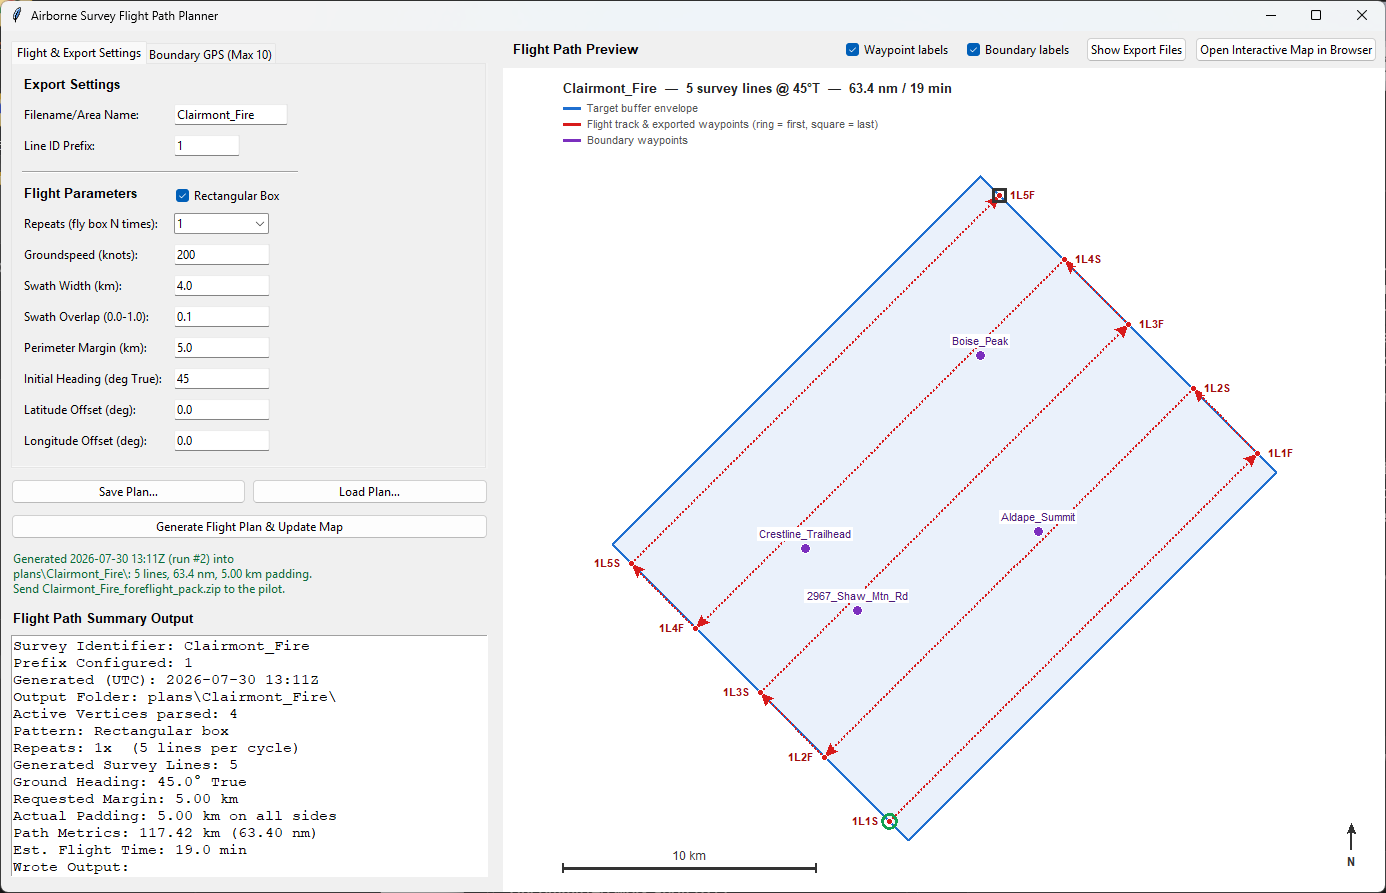
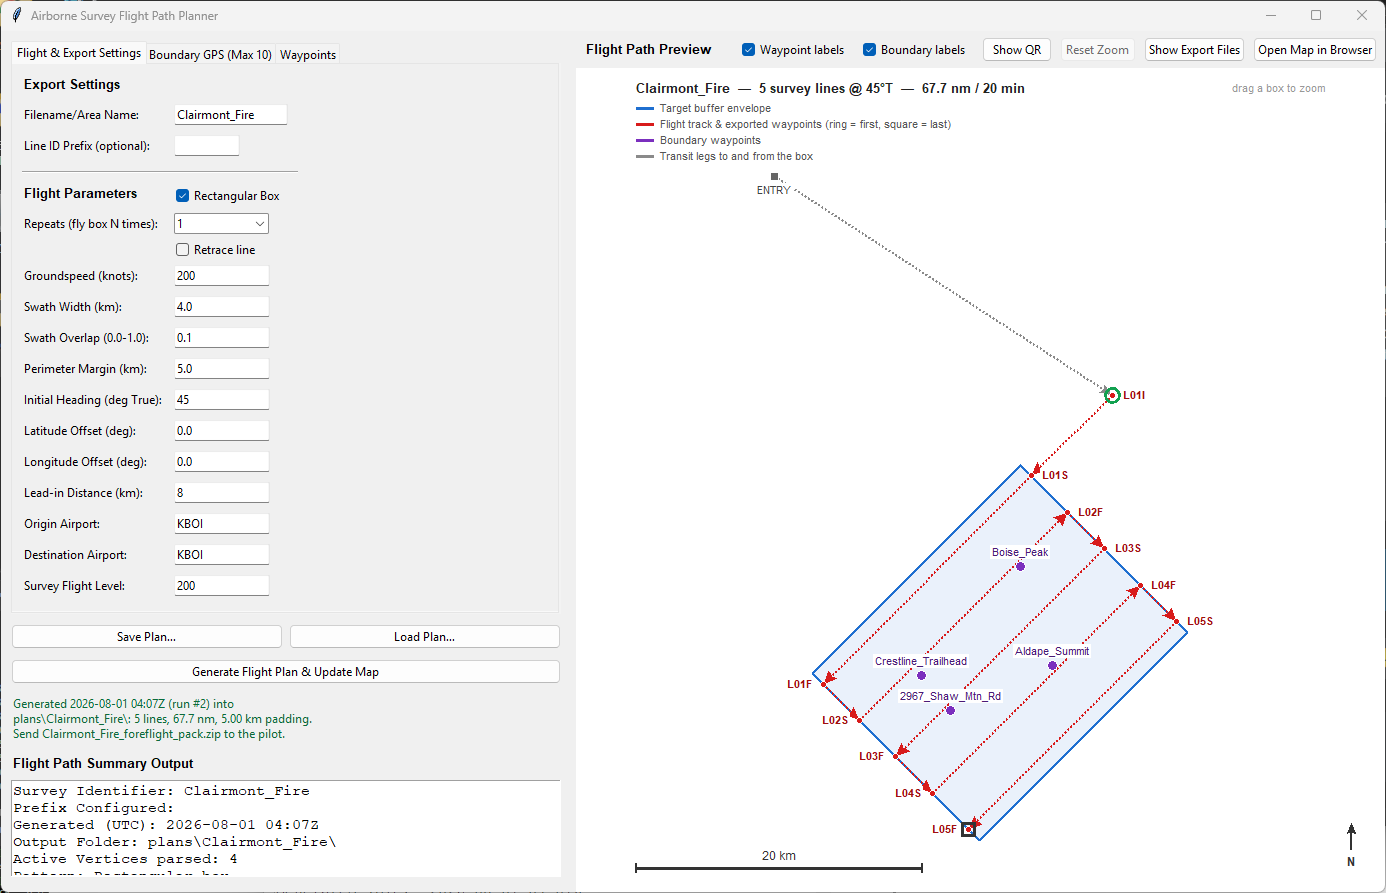
Add a lead-in waypoint and widen the window
The preview header had grown to two checkboxes and four buttons, which
squeezed "Waypoint labels" and "Boundary labels" until they clipped. The
default window goes to 1500x900 and the longest button becomes "Open Map in
Browser", which is what was eating the room.

Lead-in Distance puts a waypoint that far back from the first line's start,
along that line's own bearing. Extending backwards rather than sideways is
the point: the aircraft flies the lead-in on the survey heading, so it is
wings-level and established on track by the time the line, and the sensor
run, actually begins. Named L01I, so the sequence reads intercept, start,
finish. 0 disables it, which is the default; negative input is clamped.

It is prepended to the flight path as well as the waypoint list, because it
is flown -- verified the path grows by exactly the lead-in distance, 78.31
to 86.31 km for 8 km.

Verified the geometry rather than assuming it: the lead-in sits 8.000 km
from the line start, its bearing to that start matches the line's own
bearing to 0.001 degrees, and it lies further from the line's finish than
the start does, so it extends away from the box rather than into it.

It composes with the nearest-corner choice: because it extends away from
the box towards where the aircraft is arriving from, it lands between the
transit waypoint and the line start rather than beyond it.

Also refreshed the README screenshot, which still showed the old 1L1S
naming and the narrower window.

diff --git a/airborne_survey_gui.py b/airborne_survey_gui.py
@@ -349,6 +349,24 @@ def build_survey_kml(area_name, envelope_latlon, track_latlon, waypoints, bounda
     return out.getvalue()
 
 
+def lead_in_point(first_segment, lead_km):
+    """A point `lead_km` back from a line's start, along that line's own bearing.
+
+    Extending backwards rather than sideways is the whole point: the aircraft flies the
+    lead-in on the survey heading, so it is wings-level and established on track by the
+    time the line -- and the sensor run -- actually begins.
+    """
+    if lead_km <= 0:
+        return None
+    (x0, y0), (x1, y1) = first_segment.coords[0], first_segment.coords[-1]
+    dx, dy = x1 - x0, y1 - y0
+    length = math.hypot(dx, dy)
+    if length == 0:
+        return None
+    return (x0 - dx / length * lead_km * 1000.0,
+            y0 - dy / length * lead_km * 1000.0)
+
+
 def foreflight_waypoint_name(raw, fallback):
     """Coerce a user-typed label into something ForeFlight will accept as a waypoint name.
 
@@ -456,7 +474,7 @@ class FlightPlannerGUI(tk.Tk):
     def __init__(self):
         super().__init__()
         self.title("Airborne Survey Flight Path Planner")
-        self.geometry("1300x850")
+        self.geometry("1500x900")
         
         # Default Survey Coordinates
         self.survey_boundary = [
@@ -608,6 +626,9 @@ class FlightPlannerGUI(tk.Tk):
             # holds on all sides; the summary panel reports the padding achieved.
             ("Latitude Offset (deg):", "lat_offset", "0.0"),
             ("Longitude Offset (deg):", "lon_offset", "0.0"),
+            # 0 disables it. Anything else puts a waypoint that far back along the first
+            # line's own bearing, so the aircraft is wings-level on track before the line.
+            ("Lead-in Distance (km):", "lead_in_km", "0.0"),
             # Route endpoints and cruise level for the ForeFlight route link and its QR
             # code. Not used by the survey geometry at all.
             ("Origin Airport:", "origin_airport", "KBOI"),
@@ -749,7 +770,7 @@ class FlightPlannerGUI(tk.Tk):
         preview_header = ttk.Frame(right_frame, padding=(8, 6))
         preview_header.pack(fill=tk.X)
         ttk.Label(preview_header, text="Flight Path Preview", font=("Helvetica", 10, "bold")).pack(side=tk.LEFT)
-        ttk.Button(preview_header, text="Open Interactive Map in Browser",
+        ttk.Button(preview_header, text="Open Map in Browser",
                    command=self._open_map_in_browser).pack(side=tk.RIGHT)
         ttk.Button(preview_header, text="Show Export Files",
                    command=self._open_export_folder).pack(side=tk.RIGHT, padx=(0, 8))
@@ -1444,6 +1465,7 @@ class FlightPlannerGUI(tk.Tk):
             heading = float(self.inputs["initial_heading_deg"].get())
             lat_off = float(self.inputs["lat_offset"].get())
             lon_off = float(self.inputs["lon_offset"].get())
+            lead_in_km = max(0.0, float(self.inputs["lead_in_km"].get()))
         except ValueError:
             messagebox.showerror("Input Error", "Ensure all Flight settings are valid numbers.")
             return
@@ -1493,9 +1515,15 @@ class FlightPlannerGUI(tk.Tk):
             return
         self._output_dir = out_dir
 
+        # The lead-in is flown, so it belongs on the path as well as in the waypoint list.
+        lead_xy = lead_in_point(segments[0], lead_in_km) if segments else None
+        if lead_xy is not None:
+            survey_pattern = LineString([lead_xy] + list(survey_pattern.coords))
+
         try:
             ff_file, hw_file, waypoints, survey_waypoints = self._export_csv_files(
-                segments, xy_to_latlon, area_name, waypoint_prefix, out_dir, before, after)
+                segments, xy_to_latlon, area_name, waypoint_prefix, out_dir, before, after,
+                lead_xy)
         except ValueError as err:
             messagebox.showerror("Waypoint Naming Error", str(err))
             return
@@ -1557,6 +1585,8 @@ class FlightPlannerGUI(tk.Tk):
             f"Retrace: on — {len(segments) // (repeats * 2)} rows flown out and back"
             if self.retrace_lines.get() else "Retrace: off",
             f"Generated Survey Lines: {len(segments)}",
+            f"Lead-in: {lead_in_km:.2f} km on the line bearing" if lead_xy is not None
+            else "Lead-in: off",
             f"Ground Heading: {heading:.1f}° True",
             f"Requested Margin: {margin:.2f} km",
             margin_note,
@@ -1700,7 +1730,7 @@ class FlightPlannerGUI(tk.Tk):
         )
 
     def _export_csv_files(self, flown_segments, conversion_func, area_name, line_prefix, out_dir,
-                          before=(), after=()):
+                          before=(), after=(), lead_xy=None):
         """Write both flight-plan CSVs in the exact formats the pilot supplied samples for.
 
         Waypoints are named per survey line as <prefix>L<n>S / <prefix>L<n>F -- Start and
@@ -1717,6 +1747,11 @@ class FlightPlannerGUI(tk.Tk):
         digits = max(2, len(str(len(flown_segments))))
 
         survey = []
+        if lead_xy is not None:
+            # Named for the line it leads into: L01I, then L01S, then L01F. I for
+            # intercept, so the sequence reads intercept, start, finish.
+            (lead_lat, lead_lon), = conversion_func([lead_xy])
+            survey.append((f"{line_prefix}L{1:0{digits}d}I", lead_lat, lead_lon))
         for idx, segment in enumerate(flown_segments, start=1):
             ends = conversion_func([segment.coords[0], segment.coords[-1]])
             (start_lat, start_lon), (end_lat, end_lon) = ends

diff --git a/README.md b/README.md
@@ -5,10 +5,10 @@ exports waypoints for ForeFlight and a Honeywell FMS.
 
 ![The planner: parameters and boundary points on the left, scaled flight-path preview on the right](docs/screenshot.png)
 
-Above: a 4 km swath at heading 045, giving five survey lines across a box rotated onto the
-diagonal. Every line is the same length, each end is labelled with the name written to the
-CSVs, and the summary panel confirms the requested 5.00 km perimeter margin was actually
-achieved on all sides.
+Above: a 4 km swath at heading 045 — five equal-length survey lines across a box rotated onto
+the diagonal, each end labelled with the name written to the CSVs. The grey dashed leg runs
+in from a transit waypoint to `L01I`, an 8 km lead-in on the line's own bearing so the
+aircraft is established on track before the first line begins.
 
 ## Features
 - Interactive Tkinter GUI to define survey boundary points and flight parameters
@@ -86,6 +86,11 @@ but lines of very uneven length.
 
 **Repeats** (1–4) flies the whole box that many times, with identical line directions each
 cycle. Line numbering continues across cycles, so waypoint names stay unique.
+
+**Lead-in Distance** puts a waypoint that far back from the first line's start, along that
+line's own bearing, so the aircraft rolls out wings-level and is established on track before
+the line — and the sensor run — begins. It is named `L01I` (intercept), so the sequence reads
+`L01I`, `L01S`, `L01F`. Set 0 to disable.
 
 **Retrace line** flies each row out and back before moving to the next, rather than once
 through. The return run is numbered as its own line, so three rows become `1L1S`…`1L6F`.
